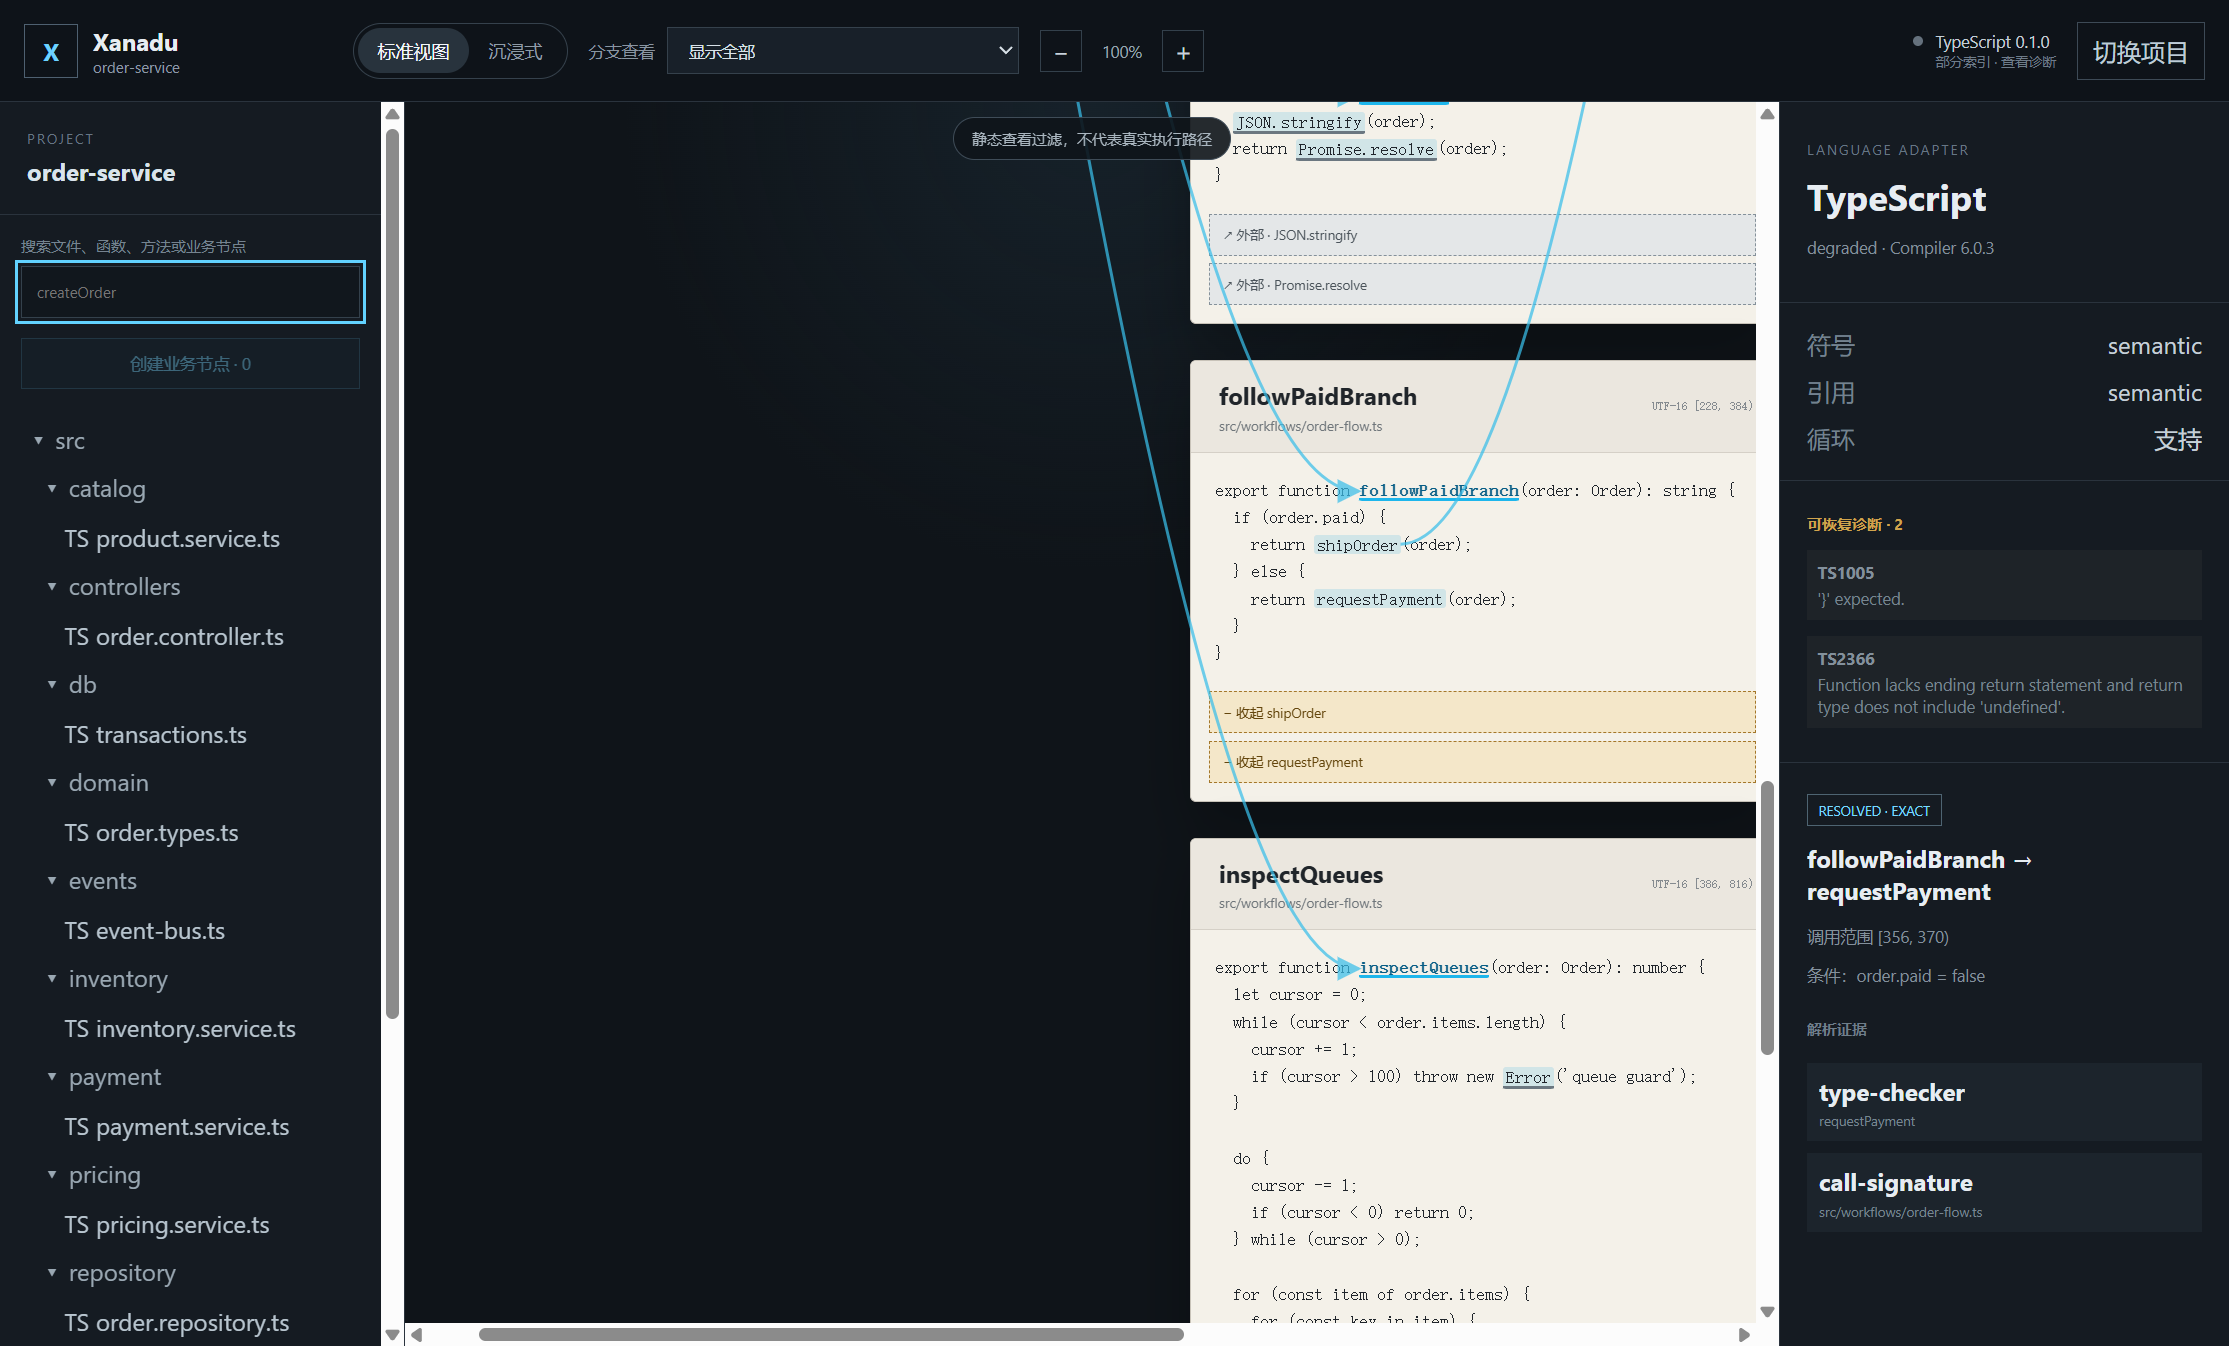
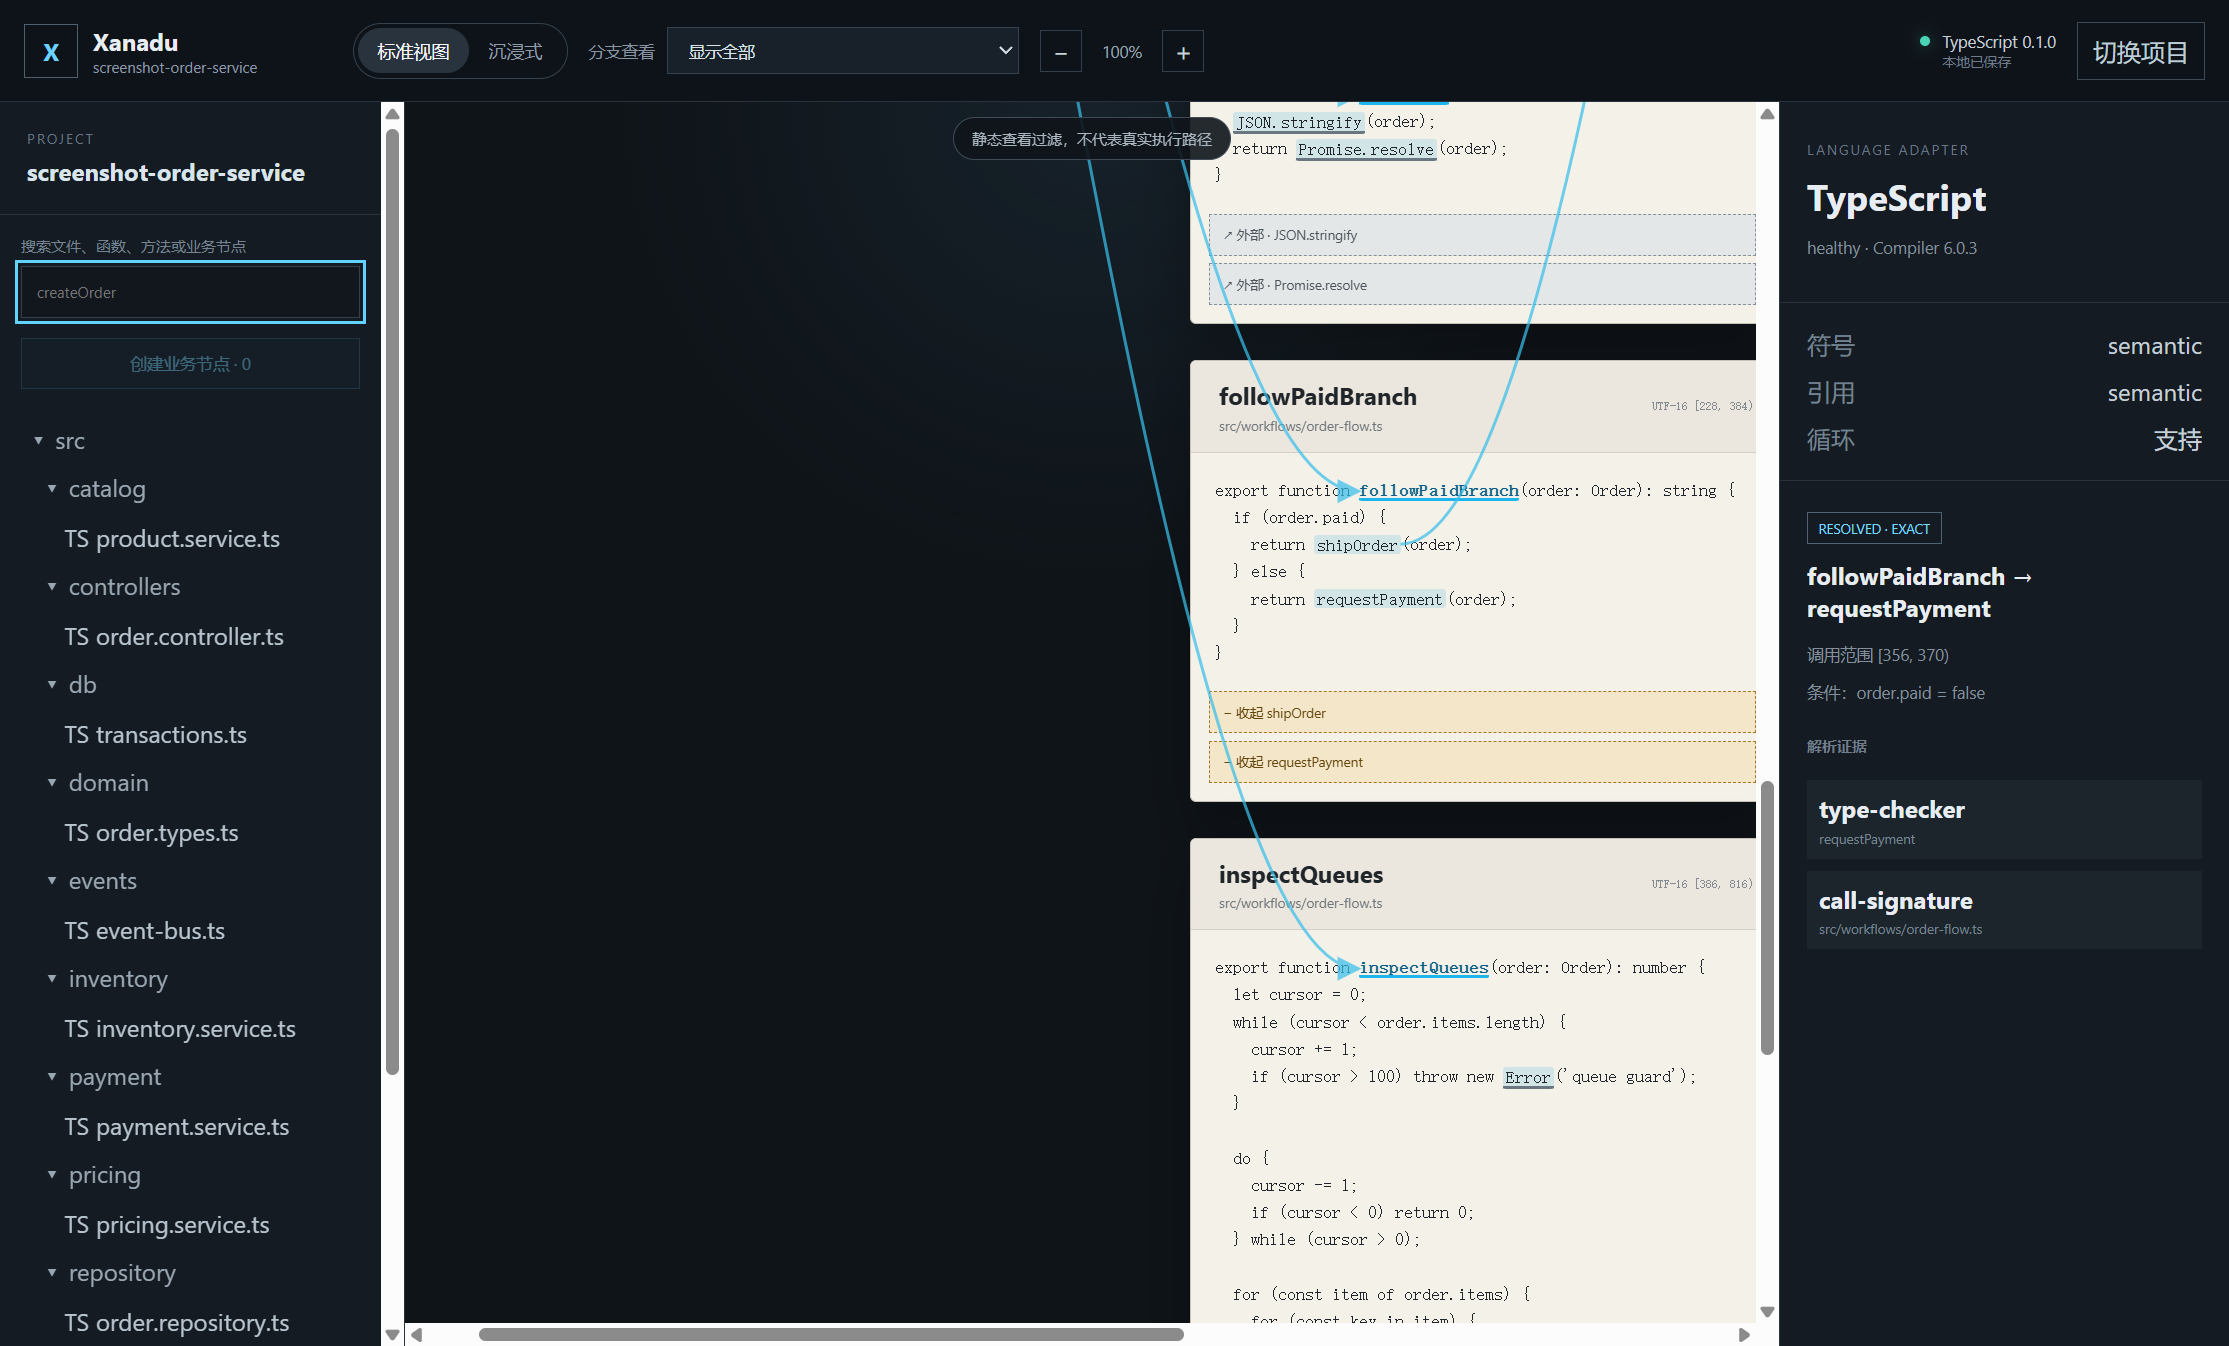
docs: document final asset migration semantics

diff --git a/docs/requirements-mapping.md b/docs/requirements-mapping.md
@@ -56,7 +56,7 @@
 | NFR-002 | 新语言不修改核心页面模型 | `model`/`adapter-api` 无具体编译器类型；测试 adapter 运行同一 contract suite | [#1](https://github.com/ljh2014137576-dev/xanadu-code-flow-browser/issues/1)、[#2](https://github.com/ljh2014137576-dev/xanadu-code-flow-browser/issues/2)、[#5](https://github.com/ljh2014137576-dev/xanadu-code-flow-browser/issues/5) |
 | NFR-003 | 每条关系可追溯到规则包、位置和解析结果 | `RelationBridge.evidence`、call-site/target revision、adapter provenance；来源 inspector | [#1](https://github.com/ljh2014137576-dev/xanadu-code-flow-browser/issues/1)、[#2](https://github.com/ljh2014137576-dev/xanadu-code-flow-browser/issues/2)、[#5](https://github.com/ljh2014137576-dev/xanadu-code-flow-browser/issues/5)、[#6](https://github.com/ljh2014137576-dev/xanadu-code-flow-browser/issues/6) |
 | NFR-004 | 渐进响应、进度、取消、部分可浏览 | batch commit、task event、cancellation token、partial snapshot；集成测试取消与迟到响应 | [#4](https://github.com/ljh2014137576-dev/xanadu-code-flow-browser/issues/4)、[#3](https://github.com/ljh2014137576-dev/xanadu-code-flow-browser/issues/3) |
-| NFR-005 | 文件变化只重建受影响关系 | MVP 0.1 当前 `incrementalUpdate=false`，执行可取消的受控全量重建；ADR-0004 将 per-session builder 与 affected relation invalidation 延期至 MVP 0.2 [#17](https://github.com/ljh2014137576-dev/xanadu-code-flow-browser/issues/17)，完成前不得声称增量 | [#4](https://github.com/ljh2014137576-dev/xanadu-code-flow-browser/issues/4)、[#5](https://github.com/ljh2014137576-dev/xanadu-code-flow-browser/issues/5)、[#17](https://github.com/ljh2014137576-dev/xanadu-code-flow-browser/issues/17) |
+| NFR-005 | 文件变化只重建受影响关系 | MVP 0.1 当前 `incrementalUpdate=false`，执行可取消的受控全量重建；partial 只作 transient 预览，completed 才从 last-completed baseline 迁移资产。ADR-0004 将 per-session builder 与 affected relation invalidation 延期至 MVP 0.2 [#17](https://github.com/ljh2014137576-dev/xanadu-code-flow-browser/issues/17)，完成前不得声称增量 | [#4](https://github.com/ljh2014137576-dev/xanadu-code-flow-browser/issues/4)、[#5](https://github.com/ljh2014137576-dev/xanadu-code-flow-browser/issues/5)、[#17](https://github.com/ljh2014137576-dev/xanadu-code-flow-browser/issues/17) |
 | NFR-006 | 单文件/规则包失败不破坏全部索引 | utility process、文件级事务、last-good snapshot、structured diagnostics、contract failure tests | [#2](https://github.com/ljh2014137576-dev/xanadu-code-flow-browser/issues/2)、[#4](https://github.com/ljh2014137576-dev/xanadu-code-flow-browser/issues/4)、[#5](https://github.com/ljh2014137576-dev/xanadu-code-flow-browser/issues/5) |
 | NFR-007 | 核心操作支持键盘 | command registry、可见 focus、drawer focus trap、桥梁/来源详情的键盘等价操作 | [#7](https://github.com/ljh2014137576-dev/xanadu-code-flow-browser/issues/7)、[#10](https://github.com/ljh2014137576-dev/xanadu-code-flow-browser/issues/10)、[#11](https://github.com/ljh2014137576-dev/xanadu-code-flow-browser/issues/11) |
 | NFR-008 | 颜色不是唯一关系编码 | resolution 对应标签、线型、端点和文本；高对比/无颜色组件测试 | [#6](https://github.com/ljh2014137576-dev/xanadu-code-flow-browser/issues/6)、[#7](https://github.com/ljh2014137576-dev/xanadu-code-flow-browser/issues/7)、[#9](https://github.com/ljh2014137576-dev/xanadu-code-flow-browser/issues/9)、[#11](https://github.com/ljh2014137576-dev/xanadu-code-flow-browser/issues/11) |

diff --git a/README.md b/README.md
@@ -58,7 +58,7 @@ npm run start
 
 建议验收顺序：
 
-1. 选择 `order-service`，确认 TypeScript manifest、Compiler 版本、能力和 degraded/healthy 状态可见；fixture 的故意语法错误会产生可恢复诊断。
+1. 选择 `order-service`，确认 TypeScript manifest、Compiler 版本、能力和 degraded/healthy 状态可见。含故意语法错误的原始 fixture 会以 partial transient 预览打开；要验证 durable FlowPage/BusinessNode 恢复，请先修复该文件或选择一个无语法错误的项目。
 2. 在目录树或统一搜索中打开 `createOrder`。初始 FlowPage 只显示入口和可发现引用；点击“展开”按 RelationId 逐层加入目标，且不会加入 `unrelatedInboundCaller`。
 3. 点击调用范围或桥梁查看 resolved/ambiguous/unresolved/external 状态与 TypeChecker 证据。
 4. 点击函数标题进入原文件精确范围，再返回 FlowPage。
@@ -99,6 +99,8 @@ MVP 的显式 Vite build、HTML CodeSurface 和增量延期见 [ADR-0004](docs/a
 
 - 首版只加载随应用发布的 TypeScript adapter；任意第三方规则包安装、签名和权限模型属于后续阶段。
 - 当前 TypeScript adapter 诚实声明 `incrementalUpdate=false`；变更触发受控全量重建。取消会终止 utility process，partial/cancelled 不会保存为成功索引缓存。
+- partial generation 只作为带诊断的 transient 预览：不会迁移或保存 FlowPage/BusinessNode，也不会写入 cache/journal；只有 completed generation 才从 last-completed baseline 一次性迁移用户资产。
+- Symbol/Relation identity recipe 使用 v2；pending migrations 只针对真实用户资产引用，keep-stale 会保留可渲染的 stale asset/evidence，confirm/remove 都经过 schema 校验。
 - 持久化采用 `StoragePort` 后的原子 JSON 实现；SQLite driver 仍需单独完成 Electron ABI/打包验证。
 - 静态分析不能声称某次真实运行经过了哪条分支或循环了多少次；真实追踪属于未来运行阶段。
 - 项目自身尚未选择开源许可证。分发源码或安装包前，仓库所有者必须确定项目许可证并完成第三方 notices 审阅。

diff --git a/docs/adr/0004-mvp-implementation-variances.md b/docs/adr/0004-mvp-implementation-variances.md
@@ -39,9 +39,15 @@ MVP 0.1 的首个 CodeSurface 后端使用只读 `<pre>/<code>`、精确 range s
 
 ## NFR-005：增量索引延期
 
-MVP 0.1 的 TypeScript adapter 明确声明 `incrementalUpdate=false`。它执行可取消、realpath-contained、partial-aware 的全量重建；只有 completed generation 写成功缓存。不得把 changedFiles 请求描述为增量。
+MVP 0.1 的 TypeScript adapter 明确声明 `incrementalUpdate=false`。它执行可取消、realpath-contained 的全量重建。partial generation 只作为 transient 预览，不迁移 durable assets、不写 cache/journal；只有 completed generation 才从 last-completed baseline 迁移资产并写成功缓存。不得把 changedFiles 请求描述为增量。
 
 可靠的 per-session incremental builder、affected relation invalidation 与 watcher generation ordering进入 MVP 0.2 Issue #17。只有该 Issue 的全部验收通过后才能把 capability 改为 `true`。
+
+## Identity、资产与迁移 schema
+
+MVP 0.1 使用 identity recipe v2：SymbolFragment 携带词法容器、signature/declaration fingerprint；RelationBridge 携带完整调用表达式 fingerprint、lexical path 和 occurrence 证据。旧 recipe v1 只作为安全解码输入，迁移通过 relocation candidate/evidence 执行，不静默 reinterpret。
+
+UserWorkspaceState 的 `pendingMigrations` 只包含实际被 entry、placement、BusinessNode member、expanded/selected/via 引用的 unresolved IDs；`staleAssets` 保存用户选择保留的旧 ID、previous-index provenance、evidence 和 keptAt，并由 UI 渲染占位项。relocation journal 保存 source/target 映射，采用 generation/ack 协议，保证 cache、用户资产和崩溃恢复一致。
 
 ## 后果与文档规则
 
